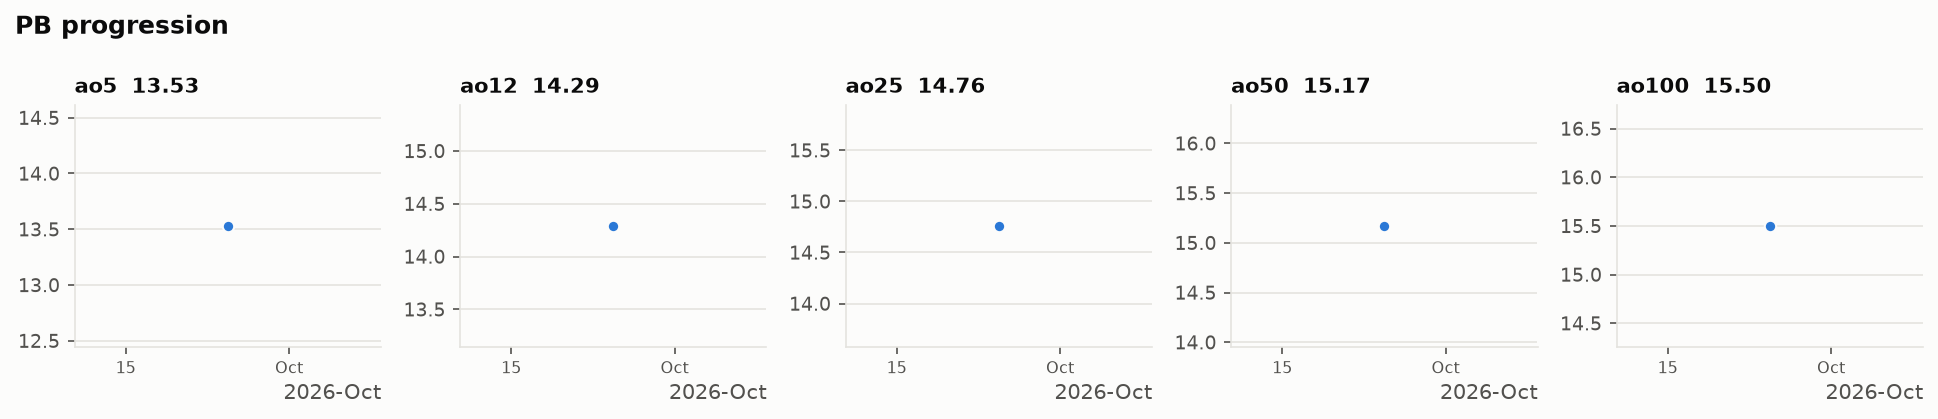
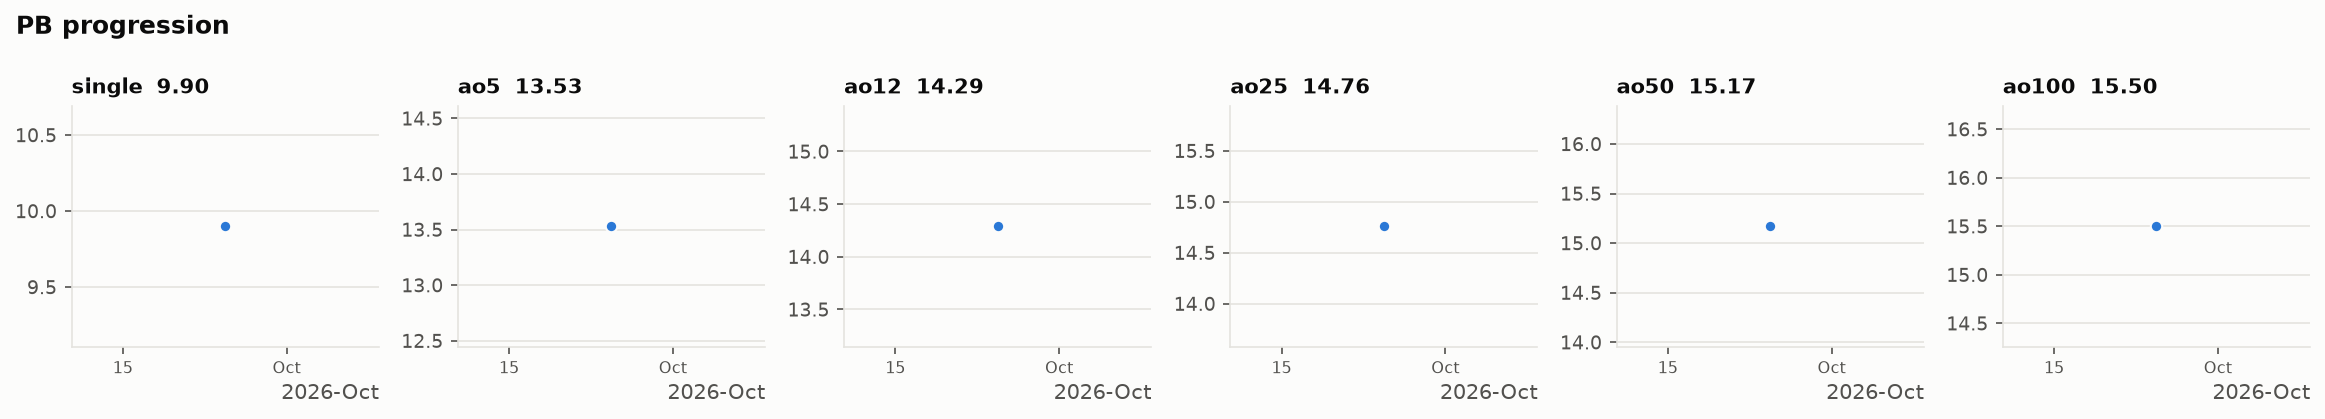
Add single PB 9.90 and optional solve reconstructions

diff --git a/scripts/build.py b/scripts/build.py
@@ -4,7 +4,10 @@
 Usage:  python3 scripts/build.py
 
 Each file in records/<event>/YYYY-MM-DD[suffix].txt is one PB. The file name
-gives the date; the times inside give the average. Two input formats work:
+gives the date; the times inside give the average. A csTimer export can be
+pasted in whole (its header lines are skipped, and a "single: 9.90" or
+"avg of 5: 13.53" line is checked against what the script computes).
+Two input formats work:
 
   numbered (with scrambles)       comma-separated (times only)
   1. (14.53)   D' L' U2 ...       15.05, 13.86, (11.38), 17.14
@@ -14,6 +17,14 @@ Parentheses are optional and ignored: the script decides which solves get
 trimmed itself. "17.03+" means a +2 already included in 17.03 (csTimer style).
 "DNF" / "DNF(14.20)" count as the worst possible solve. Lines starting with #
 are notes and appear on the stats page.
+
+Optional reconstruction: lines starting with ">" right under a numbered solve
+belong to that solve. Use // for step comments:
+
+  1. 9.90   R2 B2 L2 F D2 ...
+  > z2 // inspection
+  > D R' F D' // cross
+  > U R U' R' // F2L 1
 """
 
 import json
@@ -21,6 +32,7 @@ import math
 import re
 from datetime import date, timedelta
 from pathlib import Path
+from urllib.parse import quote
 
 import matplotlib
 
@@ -33,7 +45,7 @@ from scipy import stats as sps
 ROOT = Path(__file__).resolve().parent.parent
 RECORDS = ROOT / "records"
 STATS = ROOT / "stats"
-EVENTS = ["ao5", "ao12", "ao25", "ao50", "ao100"]
+EVENTS = ["single", "ao5", "ao12", "ao25", "ao50", "ao100"]
 
 # Colors (reference palette, light mode)
 SURFACE = "#fcfcfb"
@@ -45,6 +57,9 @@ TRIMMED = "#b9b8b2"  # gray: solves trimmed off the ends
 FIT = "#eb6834"  # orange: fitted normal curve
 ACCENT = "#1baf7a"  # aqua: KDE / rolling average
 
+HEADER_RE = re.compile(r"^(generated by cstimer|time list:|solves?/total:|session)", re.I)
+CLAIM_RE = re.compile(r"^(single|best|avg of \d+|mean of \d+)\s*:\s*(\S+)", re.I)
+MOVE_RE = re.compile(r"^([RLUDFB]w?|[rludfbMES])\d*'?$")
 TIME_RE = re.compile(r"\(?\s*(DNF(?:\([\d:.]+\))?|[\d:]+\.\d+\+?)\s*\)?", re.I)
 
 
@@ -64,26 +79,71 @@ def parse_time(tok):
 
 
 def parse_file(path):
-    solves, notes = [], []
+    """Returns (solves, notes, claimed). claimed is csTimer's own number, if present."""
+    solves, notes, claimed = [], [], None
     for raw in path.read_text().splitlines():
         line = raw.strip()
-        if not line:
+        if not line or HEADER_RE.match(line):
             continue
         if line.startswith("#"):
             notes.append(line.lstrip("# ").rstrip())
+            continue
+        if line.startswith(">"):
+            if not solves:
+                raise SystemExit(f"{path}: reconstruction line before any solve: {line}")
+            solves[-1]["recon"].append(line[1:].strip())
+            continue
+        claim = CLAIM_RE.match(line)
+        if claim:
+            claimed = parse_time(claim.group(2))[0]
             continue
         numbered = re.match(r"^\d+\.\s+(.*)$", line)
         if numbered:
             rest = numbered.group(1)
             m = TIME_RE.match(rest)
             t, pen = parse_time(m.group(1))
-            solves.append({"time": t, "penalty": pen, "scramble": rest[m.end():].strip()})
-        else:
+            solves.append({"time": t, "penalty": pen, "scramble": rest[m.end():].strip(),
+                           "recon": []})
+        elif all(TIME_RE.fullmatch(tok.strip()) for tok in line.split(",") if tok.strip()):
             for tok in line.split(","):
                 if tok.strip():
                     t, pen = parse_time(tok)
-                    solves.append({"time": t, "penalty": pen, "scramble": ""})
-    return solves, notes
+                    solves.append({"time": t, "penalty": pen, "scramble": "", "recon": []})
+        else:
+            print(f"warning: {path.name}: skipped unrecognised line: {line}")
+    return solves, notes, claimed
+
+
+def recon_moves(recon):
+    """Move count in STM (slices count as 1), ignoring rotations and // comments."""
+    n = 0
+    for line in recon:
+        for tok in line.split("//")[0].replace("(", " ").replace(")", " ").split():
+            n += bool(MOVE_RE.match(tok))
+    return n
+
+
+def alg_link(scramble, recon):
+    """alg.cubing.net link that plays the reconstruction from the scramble."""
+    enc = lambda a: quote(a.replace("'", "-").replace(" ", "_"), safe="_-")
+    return (f"https://alg.cubing.net/?setup={enc(scramble)}"
+            f"&alg={enc(chr(10).join(recon))}&type=reconstruction")
+
+
+def recon_section(solves, trimmed=()):
+    """Markdown for every solve that has a reconstruction (empty if none do)."""
+    L = []
+    for i, s in enumerate(solves):
+        if not s["recon"]:
+            continue
+        moves = recon_moves(s["recon"])
+        tps = f" · {moves / s['time']:.2f} TPS" if math.isfinite(s["time"]) and moves else ""
+        L += [f"### Solve {i + 1} — {fmt(s['time'])}", "",
+              f"**Scramble:** `{s['scramble']}`  ",
+              f"**{moves} moves** (STM, rotations excluded){tps} · "
+              f"[▶ play on alg.cubing.net]({alg_link(s['scramble'], s['recon'])})", "",
+              "```", *s["recon"], "```", ""]
+    return (["## Reconstructions", ""] + L) if L else []
 
 
 # ---------------------------------------------------------------- stats
@@ -313,6 +373,7 @@ def session_page(event, day, solves, notes, avg, trimmed, st, prev):
               ""]
     L += ["## Distribution", "", "![distribution](distribution.png)", "",
           "## Solves in order", "", "![sequence](sequence.png)", "",
+          *recon_section(solves, trimmed),
           "## Solves", "", "| # | Time | Scramble |" if any(s["scramble"] for s in solves)
           else "| # | Time |",
           "|---|---|---|" if any(s["scramble"] for s in solves) else "|---|---|"]
@@ -327,6 +388,19 @@ def session_page(event, day, solves, notes, avg, trimmed, st, prev):
     return "\n".join(L)
 
 
+def single_page(day, solve, notes, prev):
+    L = [f"# Single PB — {fmt(solve['time'])}", "", f"**Date:** {day}  "]
+    if prev:
+        L.append(f"**Previous PB:** {fmt(prev['average'])} ({prev['date']}) · "
+                 f"improved by **{prev['average'] - solve['time']:.2f}s**  ")
+    L += ["[← all records](../../../README.md)", ""]
+    L += [f"> {n}" for n in notes] + ([""] if notes else [])
+    L += [f"**Scramble:** `{solve['scramble']}`", ""]
+    L += recon_section([solve]) or [
+        "_No reconstruction yet. Add `>` lines under the solve in the record file to include one._", ""]
+    return "\n".join(L)
+
+
 def readme(history):
     L = ["# 3x3 PBs", "",
          "Personal-best averages, with the full solve list and stats behind each one.",
@@ -337,26 +411,40 @@ def readme(history):
         if history.get(ev):
             cur = history[ev][0]
             L.append(f"| **{ev}** | **{fmt(cur['average'])}** | {cur['date']} | "
-                     f"[stats]({cur['page']}) |")
+                     f"[details]({cur['page']}) |")
     L += ["", "![PB progression](stats/progression.png)", "", "## PB history", "",
           "Newest first. Each new PB pushes the older ones down.", ""]
     for ev in EVENTS:
         rows = history.get(ev)
         if not rows:
             continue
-        L += [f"### {ev}", "", "| Date | Time | Improvement | σ | Stats |", "|---|---|---|---|---|"]
+        L += [f"### {ev}", "", "| Date | Time | Improvement | σ | Recon | Stats |",
+              "|---|---|---|---|---|---|"]
         for i, r in enumerate(rows):
             older = rows[i + 1] if i + 1 < len(rows) else None
             imp = f"−{older['average'] - r['average']:.2f}" if older else "first recorded"
             t = f"**{fmt(r['average'])}**" if i == 0 else fmt(r["average"])
-            L.append(f"| {r['date']} | {t} | {imp} | {r['std']:.2f} | [stats]({r['page']}) |")
+            sd = "—" if r["std"] is None else f"{r['std']:.2f}"
+            rc = "✓" if r["recon"] else ""
+            L.append(f"| {r['date']} | {t} | {imp} | {sd} | {rc} | [details]({r['page']}) |")
         L.append("")
     L += ["## Adding a new PB", "",
           "1. Save the solves as `records/<event>/YYYY-MM-DD.txt` "
-          "(paste straight from csTimer — numbered lines with scrambles, or comma-separated times).",
+          "(`<event>` is `single`, `ao5`, `ao12`, `ao25`, `ao50` or `ao100`). "
+          "Paste the csTimer export as-is — header and all.",
           "2. Run `python3 scripts/build.py`.",
           "3. `git add -A && git commit -m \"ao5 PB 12.80\" && git push`.", "",
-          "The new record goes to the top of its history and the README updates itself.", ""]
+          "The new record goes to the top of its history and the README updates itself.", "",
+          "### Reconstructions (optional)", "",
+          "Put `>` lines directly under any numbered solve. `//` starts a comment:", "",
+          "```",
+          "1. 9.90   R2 B2 L2 F D2 B L2 F2 L2 F' D2 R2 L D' F' D U2 L D' F'",
+          "> z2 // inspection",
+          "> D R' F D' // cross",
+          "> U R U' R' // F2L 1",
+          "```", "",
+          "The details page then shows the move count, TPS, and an alg.cubing.net link "
+          "that replays the solve.", ""]
     return "\n".join(L)
 
 
@@ -370,19 +458,32 @@ def main():
         for f in files:  # oldest first, so each knows the PB before it
             day = f.stem[:10]
             date.fromisoformat(day)  # fail loudly on a bad file name
-            solves, notes = parse_file(f)
-            want = int(ev[2:])
+            solves, notes, claimed = parse_file(f)
+            want = 1 if ev == "single" else int(ev[2:])
             if len(solves) != want:
                 raise SystemExit(f"{f}: expected {want} solves, found {len(solves)}")
             times = [s["time"] for s in solves]
-            avg, trimmed = average(times)
-            st = describe(times)
+            avg, trimmed = (times[0], set()) if ev == "single" else average(times)
+            if claimed is not None and abs(claimed - avg) > 0.005:
+                print(f"warning: {f.name}: csTimer says {fmt(claimed)}, computed {fmt(avg)}")
             if prev and avg >= prev["average"]:
                 print(f"warning: {f.name} ({fmt(avg)}) is not faster than {prev['date']} "
                       f"({fmt(prev['average'])})")
 
             outdir = STATS / ev / f.stem
             outdir.mkdir(parents=True, exist_ok=True)
+            row = {"date": day, "average": avg, "std": None,
+                   "page": f"stats/{ev}/{f.stem}/README.md",
+                   "recon": any(s["recon"] for s in solves)}
+            if ev == "single":
+                (outdir / "README.md").write_text(single_page(day, solves[0], notes, prev))
+                rows.append(row)
+                prev = row
+                print(f"{ev:>6}  {day}  {fmt(avg)}")
+                continue
+
+            st = describe(times)
+            row["std"] = st["std"]
             plot_distribution(ev, day, times, trimmed, avg, st, outdir / "distribution.png")
             plot_sequence(ev, day, times, trimmed, avg, outdir / "sequence.png")
             (outdir / "README.md").write_text(
@@ -393,11 +494,9 @@ def main():
                     for k, v in st.items()},
                  "times": [None if math.isinf(t) else t for t in times]}, indent=2))
 
-            row = {"date": day, "average": avg, "std": st["std"],
-                   "page": f"stats/{ev}/{f.stem}/README.md"}
             rows.append(row)
             prev = row
-            print(f"{ev:>5}  {day}  {fmt(avg)}")
+            print(f"{ev:>6}  {day}  {fmt(avg)}")
         history[ev] = rows[::-1]  # newest first
 
     plot_progression(history, STATS / "progression.png")

diff --git a/README.md b/README.md
@@ -7,11 +7,12 @@ Generated by `scripts/build.py` — don't edit this file by hand.
 
 | Event | PB | Date | Stats |
 |---|---|---|---|
-| **ao5** | **13.53** | 2026-09-25 | [stats](stats/ao5/2026-09-25/README.md) |
-| **ao12** | **14.29** | 2026-09-25 | [stats](stats/ao12/2026-09-25/README.md) |
-| **ao25** | **14.76** | 2026-09-25 | [stats](stats/ao25/2026-09-25/README.md) |
-| **ao50** | **15.17** | 2026-09-25 | [stats](stats/ao50/2026-09-25/README.md) |
-| **ao100** | **15.50** | 2026-09-25 | [stats](stats/ao100/2026-09-25/README.md) |
+| **single** | **9.90** | 2026-09-25 | [details](stats/single/2026-09-25/README.md) |
+| **ao5** | **13.53** | 2026-09-25 | [details](stats/ao5/2026-09-25/README.md) |
+| **ao12** | **14.29** | 2026-09-25 | [details](stats/ao12/2026-09-25/README.md) |
+| **ao25** | **14.76** | 2026-09-25 | [details](stats/ao25/2026-09-25/README.md) |
+| **ao50** | **15.17** | 2026-09-25 | [details](stats/ao50/2026-09-25/README.md) |
+| **ao100** | **15.50** | 2026-09-25 | [details](stats/ao100/2026-09-25/README.md) |
 
 ![PB progression](stats/progression.png)
 
@@ -19,40 +20,59 @@ Generated by `scripts/build.py` — don't edit this file by hand.
 
 Newest first. Each new PB pushes the older ones down.
 
+### single
+
+| Date | Time | Improvement | σ | Recon | Stats |
+|---|---|---|---|---|---|
+| 2026-09-25 | **9.90** | first recorded | — |  | [details](stats/single/2026-09-25/README.md) |
+
 ### ao5
 
-| Date | Time | Improvement | σ | Stats |
-|---|---|---|---|---|
-| 2026-09-25 | **13.53** | first recorded | 1.04 | [stats](stats/ao5/2026-09-25/README.md) |
+| Date | Time | Improvement | σ | Recon | Stats |
+|---|---|---|---|---|---|
+| 2026-09-25 | **13.53** | first recorded | 1.04 |  | [details](stats/ao5/2026-09-25/README.md) |
 
 ### ao12
 
-| Date | Time | Improvement | σ | Stats |
-|---|---|---|---|---|
-| 2026-09-25 | **14.29** | first recorded | 2.60 | [stats](stats/ao12/2026-09-25/README.md) |
+| Date | Time | Improvement | σ | Recon | Stats |
+|---|---|---|---|---|---|
+| 2026-09-25 | **14.29** | first recorded | 2.60 |  | [details](stats/ao12/2026-09-25/README.md) |
 
 ### ao25
 
-| Date | Time | Improvement | σ | Stats |
-|---|---|---|---|---|
-| 2026-09-25 | **14.76** | first recorded | 2.84 | [stats](stats/ao25/2026-09-25/README.md) |
+| Date | Time | Improvement | σ | Recon | Stats |
+|---|---|---|---|---|---|
+| 2026-09-25 | **14.76** | first recorded | 2.84 |  | [details](stats/ao25/2026-09-25/README.md) |
 
 ### ao50
 
-| Date | Time | Improvement | σ | Stats |
-|---|---|---|---|---|
-| 2026-09-25 | **15.17** | first recorded | 2.47 | [stats](stats/ao50/2026-09-25/README.md) |
+| Date | Time | Improvement | σ | Recon | Stats |
+|---|---|---|---|---|---|
+| 2026-09-25 | **15.17** | first recorded | 2.47 |  | [details](stats/ao50/2026-09-25/README.md) |
 
 ### ao100
 
-| Date | Time | Improvement | σ | Stats |
-|---|---|---|---|---|
-| 2026-09-25 | **15.50** | first recorded | 2.47 | [stats](stats/ao100/2026-09-25/README.md) |
+| Date | Time | Improvement | σ | Recon | Stats |
+|---|---|---|---|---|---|
+| 2026-09-25 | **15.50** | first recorded | 2.47 |  | [details](stats/ao100/2026-09-25/README.md) |
 
 ## Adding a new PB
 
-1. Save the solves as `records/<event>/YYYY-MM-DD.txt` (paste straight from csTimer — numbered lines with scrambles, or comma-separated times).
+1. Save the solves as `records/<event>/YYYY-MM-DD.txt` (`<event>` is `single`, `ao5`, `ao12`, `ao25`, `ao50` or `ao100`). Paste the csTimer export as-is — header and all.
 2. Run `python3 scripts/build.py`.
 3. `git add -A && git commit -m "ao5 PB 12.80" && git push`.
 
 The new record goes to the top of its history and the README updates itself.
+
+### Reconstructions (optional)
+
+Put `>` lines directly under any numbered solve. `//` starts a comment:
+
+```
+1. 9.90   R2 B2 L2 F D2 B L2 F2 L2 F' D2 R2 L D' F' D U2 L D' F'
+> z2 // inspection
+> D R' F D' // cross
+> U R U' R' // F2L 1
+```
+
+The details page then shows the move count, TPS, and an alg.cubing.net link that replays the solve.

diff --git a/stats/single/2026-09-25/README.md b/stats/single/2026-09-25/README.md
@@ -1,0 +1,8 @@
+# Single PB — 9.90
+
+**Date:** 2026-09-25  
+[← all records](../../../README.md)
+
+**Scramble:** `R2 B2 L2 F D2 B L2 F2 L2 F' D2 R2 L D' F' D U2 L D' F'`
+
+_No reconstruction yet. Add `>` lines under the solve in the record file to include one._
